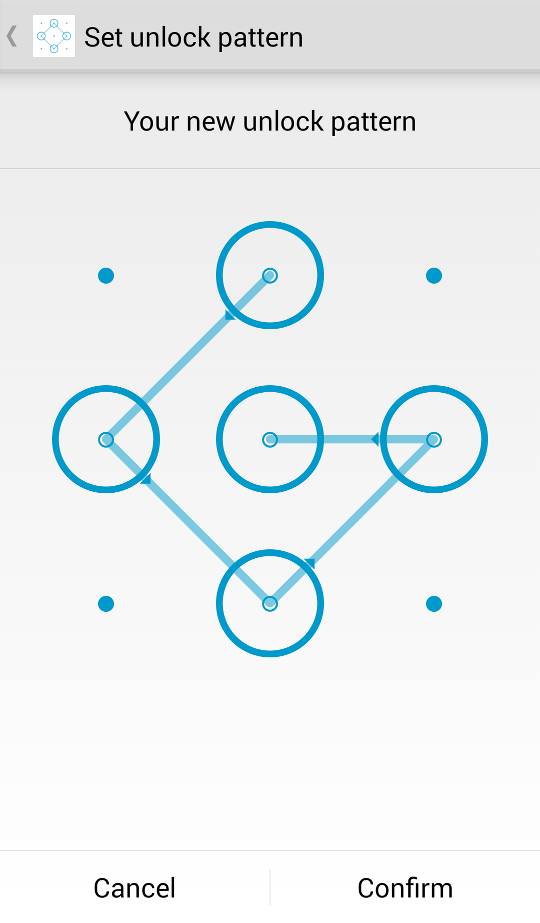
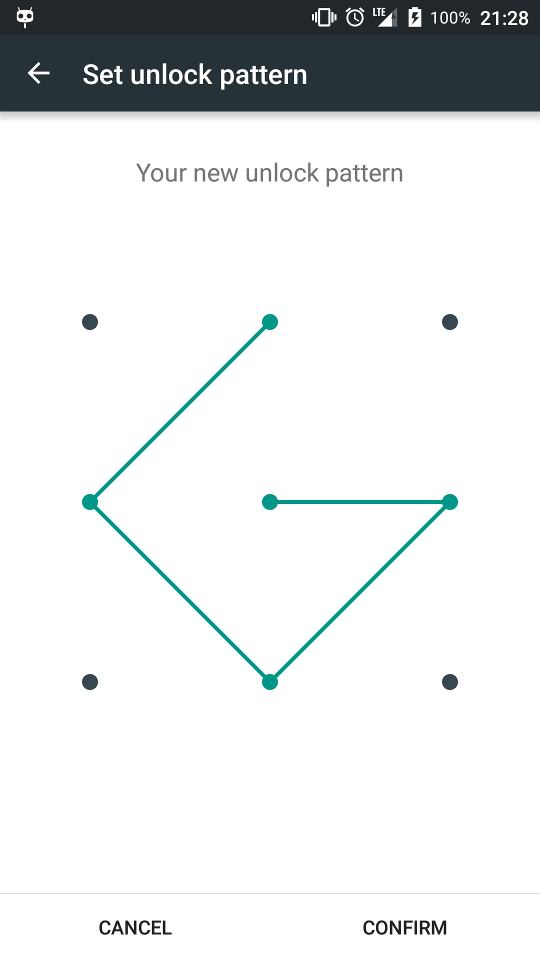
Update README and image.

diff --git a/README.md b/README.md
@@ -18,13 +18,7 @@ The original view in AOSP is named `LockPatternView`, however I believe it is na
 
 This library aims to provide the basic but extensible building blocks for implementing pattern lock mechanism in an Android app. So the common usage will be extending the base Activity classes provided and overriding methods according to your need.
 
-This library also aims to be elegant. Code taken from AOSP was slightly refactored and renamed to be clear, and the `PatternView` now utilizes the Android resource system for customization. Moreover, tweaks for stealth mode and haptic feedback is done for better behavior.
-
-Currently this library is partly tailored to my own needs:
-
-* The `PatternView` code is taken just before the Material design adjusted its animation and styling, which keeps its Holo style, consistent to my aesthetics and production app.
-
-* This library is currently ICS-compatible, since Android 2.x are phasing out day by day, and I don't need to support them. (But it can be refactored to support older versions if anyone has the time.)
+This library also aims to be elegant. Code taken from AOSP was slightly refactored and renamed to be clear, and the `PatternView` now utilizes the Android resource system for customization.
 
 ## Usage
 
@@ -35,8 +29,8 @@ Here are some detailed usage documentation, and you can always refer to the samp
 First of all, you need to include the default styling in your theme, by adding:
 
 ```xml
-<item name="patternViewStyle">@style/PatternView.Holo</item>
-<!-- Or PatternView.Holo.Light, or your own style extending these two or not. -->
+<item name="patternViewStyle">@style/PatternView</item>
+<!-- Or PatternView.Light, or your own style extending these two or not. -->
 ```
 
 Or you can utilize the resource overriding trick by copying the `layout/base_pattern_activity.xml` from the library source to your application source, and modify it there (for instance PatternView attributes). Changes will override the original layout in this library.
@@ -58,38 +52,26 @@ Available `PatternView` attributes are, as in `attrs.xml`:
     <attr name="errorColor" format="color|reference" />
     <!-- Defines the success color. -->
     <attr name="successColor" format="color|reference"/>
-    <!-- Defines the color to use when drawing PatternView paths. -->
-    <attr name="pathColor" format="color|reference" />
-    <attr name="dotDrawableDefault" format="reference" />
-    <attr name="dotDrawableTouched" format="reference" />
-    <attr name="circleDrawableDefault" format="reference" />
-    <attr name="circleDrawable" format="reference" />
-    <attr name="arrowUpDrawable" format="reference" />
 </declare-styleable>
 ```
 
 And built-in styles, as in `styles.xml`:
 
 ```xml
-<style name="PatternView">
+<style name="Base.PatternView" parent="">
     <item name="aspect">square</item>
 </style>
 
-<style name="PatternView.Holo">
-    <item name="regularColor">@android:color/white</item>
-    <item name="errorColor">@android:color/holo_red_light</item>
-    <item name="successColor">@android:color/holo_green_light</item>
-    <item name="pathColor">@android:color/white</item>
-    <item name="dotDrawableDefault">@drawable/pl_patternview_dot_default</item>
-    <item name="dotDrawableTouched">@drawable/pl_patternview_dot_touched</item>
-    <item name="circleDrawableDefault">@drawable/pl_patternview_circle_default_alpha</item>
-    <item name="circleDrawable">@drawable/pl_patternview_circle_alpha</item>
-    <item name="arrowUpDrawable">@drawable/pl_patternview_arrow_alpha</item>
+<style name="PatternView" parent="Base.PatternView">
+    <item name="regularColor">?colorControlNormal</item>
+    <item name="errorColor">#fff4511e</item>
+    <item name="successColor">?colorControlActivated</item>
 </style>
 
-<style name="PatternView.Holo.Light">
-    <item name="regularColor">@android:color/black</item>
-    <item name="pathColor">@android:color/black</item>
+<style name="PatternView.Light" parent="Base.PatternView">
+    <item name="regularColor">?colorControlNormal</item>
+    <item name="errorColor">#fff4511e</item>
+    <item name="successColor">?colorControlActivated</item>
 </style>
 ```
 
@@ -139,7 +121,7 @@ public class SampleConfirmPatternActivity extends ConfirmPatternActivity {
 }
 ```
 
-Note that protected fields inherited from `BasePatternActivity`, such as `messageText` and `patternView`, are also there ready for your customization.
+Note that protected fields inherited from `BasePatternActivity`, such as `mMessageText` and `mPatternView`, are also there ready for your customization.
 
 ## Differences with android-lockpattern
 
